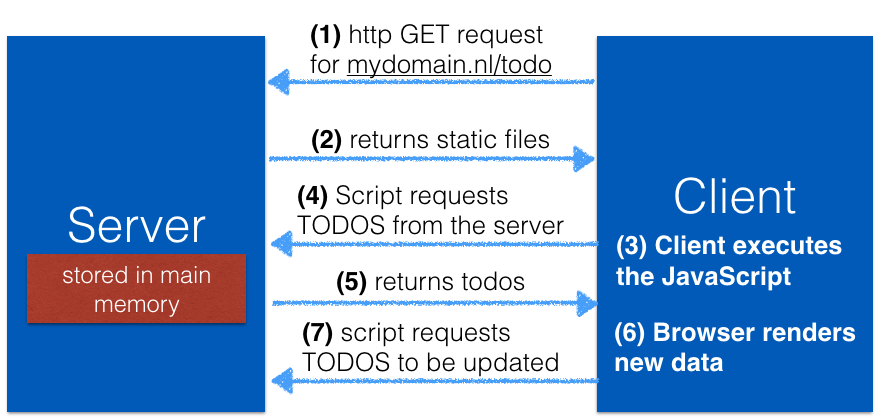
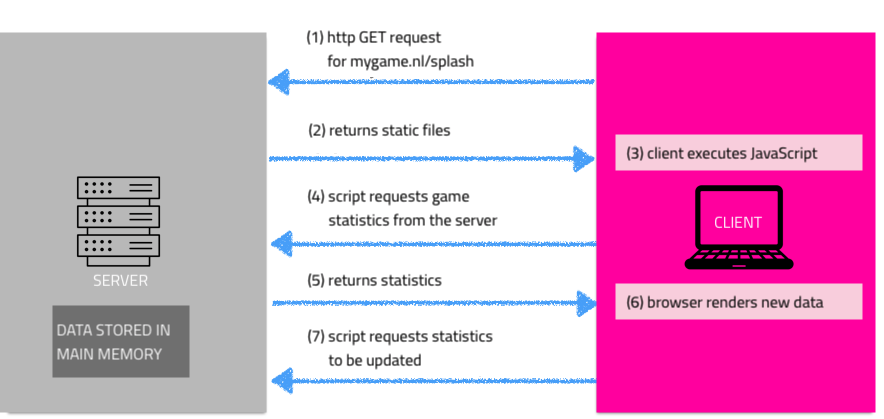
Node.js transcript finalized

diff --git a/styles.css b/styles.css
@@ -55,7 +55,7 @@
   padding: 12px 16px;
   text-decoration: none;
   display: block;
-  text-align: left;
+  text-align: left; 
 }
 
 /* Add a grey background color to dropdown links on hover */

diff --git a/Lecture-node.md b/Lecture-node.md
@@ -52,13 +52,15 @@ Node.js is by now a well-established platform; important milestones between 2008
 - 2017: Node becomes a **first-class citizen of V8**. This means that no V8 code change is allowed to break Node.
 - August 2018: [Node.js has been downloaded more than one billion times.](https://medium.com/@nodejs/more-than-a-billion-downloads-of-node-js-952a8a98eb42)
 
-Node.js is widely used today, in [Stack Overflow's 2019 developer survey](https://insights.stackoverflow.com/survey/2019) Node.js was the most popular framework in the *Frameworks, Libraries, and Tools* section (in the same survey, Visual Studio Code came out as most popular IDE). If you want to know more about how the V8 engine and Node.js fit together, watch [this keynote by Franziska Hinkelmann](https://www.youtube.com/watch?v=PsDqH_RKvyc), a prominent Googler working on the V8 engine.
+Node.js is widely used today, in [Stack Overflow's 2019 developer survey](https://insights.stackoverflow.com/survey/2019) Node.js was the most popular framework in the *Frameworks, Libraries, and Tools* section (in the same survey, Visual Studio Code came out as most popular IDE!). If you want to know more about how the V8 engine and Node.js fit together, watch [this talk by Franziska Hinkelmann](https://www.youtube.com/watch?v=PsDqH_RKvyc), a prominent Googler working on the V8 engine.
 
 ### Node.js vs. client-side JavaScript
 
-[Mariko Kosaka](https://twitter.com/kosamari), another Googler, shared this image to compare client-side JavaScript and Node.js on Twitter:
+[Mariko Kosaka](https://twitter.com/kosamari) shared this image to compare client-side JavaScript and Node.js on Twitter, which captures the essence of Node.js very well:
 
 <blockquote class="twitter-tweet" data-lang="en"><p lang="en" dir="ltr">What IS Node.js 🤔❓❓<br><br>(Proposal to stop calling server side JavaScript✨) <a href="https://t.co/IhPt8UHnPN">pic.twitter.com/IhPt8UHnPN</a></p>&mdash; Mariko Kosaka (@kosamari) <img src="https://pbs.twimg.com/media/C5_ue1TWYAA0C1R.jpg">March 3, 2017</blockquote>
+
+:point_up: Shown on the left here is Google Chrome and its JavaScript runtime engine V8 (other browsers may make use of other JavaScript runtime engines). V8 is also the core of Node.js. The main difference between the browser and Node.js are the available APIs. As an example, while JavaScript code deployed in the browser cannot access the local file system for security reasons, Node.js can. It is also important to realize that Node.js runs on many different types of hardware.
 
 
 ### Event-driven and non-blocking
@@ -72,20 +74,23 @@ Take a look at this event loop example:
 Here, despite the **single-threaded nature** of Node.js, several things are seemingly going on in parallel: a file is read from disk, a database is queried while at the same time an HTTP request from a client comes in. The reason for this is the **asynchronous** nature of file reads, network requests and so on (basically: I/O requests). While the event loop is executed in a single thread, Node maintains a *pool of threads* in order to process I/O requests in parallel. So, it is more correct to say that **Node's event loop is single-threaded**. To make this concrete, let's look at how local files are read in Node. Here is an example taken from the [Node documentation](https://nodejs.org/api/fs.html#fs_fs_readfile_path_options_callback) :point_down::
 
 ```javascript
-fs.readFile('/etc/passwd', function(err, data) {
-    if(err) throw err;
-    console.log(data);
-})
+var fs = require('fs');//this line will be explained in a bit
+
+//we assume there is a file styles.css in the current directory
+fs.readFile('./styles.css', 'utf8', function(err, data) {
+  if (err) throw err;
+  console.log(data);
+});
 ```
 
 <sup>In the documentation it does not actually say `function(err, data)` but `(err, data) =>` instead; this is just a syntactic shortcut called an [arrow function](https://developer.mozilla.org/en-US/docs/Web/JavaScript/Reference/Functions/Arrow_functions) introduced in ES6.</sup>
 
-:point_up: The method `readFile` takes two parameters: the path of the file to read and a **callback function**: the function to execute when the file reading operation has completed. The callback function has two parameters: an error object and a data object. If the file reading operation failed for some reason, we throw the error, otherwise we print out the data to the console. Once the Node runtime encounters this code snippet, it will execute `fs.readFile(....)` and return immediately to execute the next line of code (this is called **non-blocking**). What happens to the file read operation? The Node runtime has access to a pool of I/O threads and once a thread has completed the file reading operation, an event is entered into the event loop to then execute the callback (in our case printing out the contents to the console).
+:point_up: The method `readFile` takes three parameters: the path of the file to read, the file encoding type, and a **callback function**: the function to execute when the file reading operation has completed. The callback function has two parameters: an error object and a data object. If the file reading operation failed for some reason, we throw the error, otherwise we print out the data to the console. Once the Node runtime encounters this code snippet, it will execute `fs.readFile(....)` and return immediately to execute the next line of code (this is called **non-blocking**). What happens to the file read operation? The Node runtime has access to a pool of I/O threads and once a thread has completed the file reading operation, an event is entered into the event loop to then execute the callback (in our case printing out the contents to the console).
 
 The Node runtime can also read file contents from disk in a **blocking** manner :point_down::
 
 ```javascript
-let data = fs.readFileSync('/etc/passwd');
+let data = fs.readFileSync('./styles.css', 'utf8');
 ```
 
 :point_up: The Node runtime will wait until the file read is complete, return the file content in the `data` variable and then continue with the next line of code. If the file to read is large, this operation will take time and nothing else is executed in the meantime (because the code is **blocking**).
@@ -198,7 +203,12 @@ This is our corresponding [script](demo-code/node-tcp-ex) :point_down::
 const fs = require('fs');
 const net = require('net');
 
-//command line arguments: file to watch and port number
+/* 
+ * command line arguments: file to watch and port number;
+ * we start reading arguments from process.argv[2] onwards as
+ * process.argv[0] contains the path to the node program and
+ * process.argv[1] contains teh path to the node script
+ */
 const filename = process.argv[2];
 const port = process.argv[3];
 
@@ -359,15 +369,13 @@ When we do implement a web server, in the Node.js community that most often mean
 
 ## Express
 
-As noted in the web course book (Chapter 6), Express *creates a layer on top of the core HTTP module that handles a lot of complex things that we don't want to handle ourselves, like serving up static HTML, CSS, and client-side JavaScript files.*
+As noted in the web course book (Chapter 6), [Express](https://expressjs.com/) *"creates a layer on top of the core HTTP module that handles a lot of complex things that we don't want to handle ourselves, like serving up static HTML, CSS, and client-side JavaScript files."*
 
-Express is a rather minimalistic web framework that provides a *thin layer of fundamental web application features, without obscuring Node.js features that you know and love* ([Express](https://expressjs.com/) in its own words).
-
-Node.js has a small core code base; it comes with a number of core modules included such as `http` and `url`. Express is not one of the core modules (though it is certainly among the most popular non-core modules with more than [3 million downloads per week](https://www.npmjs.com/package/express)) and needs to be installed separately. In the Node ecosystem, the Node package manager ([npm](https://www.npmjs.com/)) provides us with an easy to use and efficient manner to install additional packages.
+Node.js has a small core code base; it comes with a number of core modules included such as `http` and `url`. Express is not one of the core modules (though it is certainly among the most popular non-core modules with more than [6 million downloads per week](https://www.npmjs.com/package/express)) and needs to be installed separately. In the Node ecosystem, the Node package manager ([npm](https://www.npmjs.com/)) provides us with an easy to use and efficient manner to install additional packages.
 
 Let's say you want to know whether a Node module exists that offers functionality you do not want to implement yourself. For this example, let this be the functionality of finding the smallest number in a list. Here is what is typically done:
 
-:one: Head to [npmjs.com](https://www.npmjs.com/), which allows you to search and browse more than 650,000 existing Node packages. You can also publish your own. Having such a central repository of packages helps code discovery and reuse.
+:one: Head to [npmjs.com](https://www.npmjs.com/), which allows you to search and browse existing Node packages. You can also publish your own. Having such a central repository of packages helps code discovery and reuse.
 
 :two: Search for the desired functionality, e.g. by using *smallest in list* as query.
 
@@ -460,23 +468,25 @@ Having all the pieces in place (knowledge of HTML, client-side JavaScript, Node.
 
 :five: Add interactivity between client and server.
 
-Here is an example of a concrete folder structure for a todo application:
+Here is the folder structure (a bit cleaned up for illustration purposes!) of the demo board game application:
 
 ![folder structure](img/L4-file-structure.png)
 
-In [Assignment 2](Assignment-2.md) you will learn how to create such a folder structure semi-automatically, according to accepted best practices.
+In [Assignment 5](Assignment-5.md) you will learn how to create such a folder structure semi-automatically, according to accepted best practices.
 
 Step :five:, the interactivity between client and server is the most time-consuming part of application development, as it can be based on different technologies, depending on the application's needs.
 
-In the course book, the client-server interaction is implemented with **Ajax** - which is sensible in the context of the Todo application developed throughout the book. In the board game project we ask you to implement throughout assignments [1](Assignment-1.md), [2](Assignment-2.md) and [3](Assignment-3.md), the client-server interaction is largely based on **WebSockets** - which is a good choice due to the bidirectional communication needs.
+In the course book, the client-server interaction is implemented with **Ajax** - which is sensible in the context of the Todo application developed throughout the course book. In the board game project we ask you to implement throughout assignments [4](Assignment-4.md), [5](Assignment-5.md) and [6](Assignment-6.md), the client-server interaction is largely based on **WebSockets** - which is a good choice due to the bidirectional communication needs ofour app.
 
-Here is a typical web application flow that showcases a possible client-server interaction for a Todo application:
+Ajax *is* useful for the splash screen of our board game project, in particular when it comes to updating the game statistics (e.g. games played, games aborted, games ongoing). The application flow below showcases a possible client-server interaction to do just that:
 
-![Todo application](img/L4-todo-app.png)
+![Splash screen statistics flow](img/L4-splash-statistics.png)
 
-In this application, the todos are stored in the server's main memory; once you have completed the second part of the Web- and Database Technology course (where you learn what principles databases are based on and how to interact with them), you will be able to connect a database to a web application, in order to store data persistently and retrieve it.
+:point_up: The game statistics are stored in the server's main memory for simplicity; in any large-scale application they would be stored in a database that the server makes read/write requests to. Important to realize is that initially (step :two:) the server only returns static files that do not contain the actual game statistics; in step :three: the client executes a few lines of JavaScript (Ajax!) to request the statistics from the server (step :four:); the server sends in step :five: the requested data. 
 
 When designing your own application, it is important to have a good understanding of the request/response flow in different stages of the application.
+
+Before describing Ajax in more detail, we make a short detour into data exchange formats: how does the data typically look like that is exchanged between client and server?
 
 ## JSON: exchanging data between the client and server
 
@@ -519,7 +529,25 @@ Here is an example of a Twitter message in JSON format (taken from [Twitter's do
 
 Years ago, XML was used as data exchange format on the web. XML is well defined but not easy to handle. To get an idea of XML, take a look at [this Twitter output in XMl format](https://gist.github.com/jonm/3080489).
 
-JSON was developed by Douglas Crockford, one of the early advocates for JavaScript and the author of [JavaScript: The Good Parts](http://shop.oreilly.com/product/9780596517748.do). XML is often too bulky in practice; JSON has a much smaller footprint than XML. Importantly, JSON can be parsed with built-in JavaScript functionality ([`JSON.parse`](https://developer.mozilla.org/en-US/docs/Web/JavaScript/Reference/Global_Objects/JSON/parse)), which turns a JSON string into an object. JavaScript objects can be turned into JSON with the [`JSON.stringify`](https://developer.mozilla.org/en-US/docs/Web/JavaScript/Reference/Global_Objects/JSON/stringify) method.
+JSON was developed by Douglas Crockford, one of the early advocates for JavaScript and the author of [JavaScript: The Good Parts](http://shop.oreilly.com/product/9780596517748.do). XML is often too bulky in practice; JSON has a much smaller footprint than XML. Importantly, JSON can be parsed with built-in JavaScript functionality ([`JSON.parse`](https://developer.mozilla.org/en-US/docs/Web/JavaScript/Reference/Global_Objects/JSON/parse)), which turns a JSON string into an object. JavaScript objects can be turned into JSON with the [`JSON.stringify`](https://developer.mozilla.org/en-US/docs/Web/JavaScript/Reference/Global_Objects/JSON/stringify) method:
+
+```javascript
+var gameStats = {
+    gamesPlayed: 0,
+    gamesAbolished: 0,
+    gamesOngoing: 0,
+    incrGamesPlayed : function(){
+        this.gamesPlayed++;
+    }
+}
+gameStats.incrGamesPlayed();
+
+var jsonString = JSON.stringify(gameStats); 
+//"{\"gamesPlayed\":1,\"gamesAbolished\":0,\"gamesOngoing\":0}"
+
+var jsonObject = JSON.parse(jsonString);
+//jsonObject is equivalent to gameStats minus the properties that are functions
+```
 
 Two major differences between JSON and JavaScript objects are:
 
@@ -532,7 +560,7 @@ With JSON being a de facto data exchange standard, Express has a dedicated respo
 
 Ajax stands for **Asynchronous JavaScript and XML**. XML is in the name, and in the name only. XML is not commonly used as Ajax data exchange format anymore (JSON is!).  
 
-**Asynchronous Javascript:** In synchronous programming, things happen one at a time. When a function needs information from another function, it has to wait for it to finish and this delays the whole program. This is a bad use of your computer's resources, there's no point waiting for a process to finish especially in an era where computer processors are equipped with multiple cores. This is where asynchronous programming steps up. A function that takes too long to finish is seperated from the main application and when it's done it notifies the main program if it was successful or not. [MDN web docs](https://developer.mozilla.org/en-US/docs/Learn/JavaScript/Asynchronous) is an excellent source to learn about asynchronous Javascript. The first 3 guides of this link should give you enough information to understand this concept.
+**Asynchronous Javascript:** In synchronous programming, things happen one at a time. When a function needs information from another function, it has to wait for it to finish and this delays the whole program. This is a bad use of your computer's resources, there's no point waiting for a process to finish especially in an era where computer processors are equipped with multiple cores. This is where asynchronous programming steps up. A function that takes too long to finish is seperated from the main application and when it is done, it notifies the main program if it was successful or not. 
 
 Ajax is a **JavaScript mechanism** that enables the dynamic loading of content **without having to refetch/reload the page manually**. Ajax is a technology that **injects** new data into an existing web page. Ajax is not a language. Ajax is also not a product. You see examples of this technology every day; if you stay long enough on the Twitter homepage, you will see a message such as *See 1 new tweet*, which appears without a complete reload of the page. If we keep the browser's web dev tools open (in particular the [Network Monitor](https://developer.mozilla.org/en-US/docs/Tools/Network_Monitor)), we now see a continous stream of request/response message pairs - every few seconds the browser sends a request to Twitter's servers to check for new tweets to load:
 
@@ -616,8 +644,6 @@ In practice, implementing Ajax calls correctly can be frustrating, mostly due to
 The same-origin policy is fulfilled when the **protocol, port and host** are the same for two pages. Important for debugging: Ajax **cannot** be executed from a web page opened locally from disk (e.g. if you head to your browser and open `file:///Users/claudia/GitHub/Web-Teaching/demo-code/node-ajax-ex/client/index.html`).
 
 There are ways around Ajax' same-origin policy, some of which have been collected in this [Stack Overflow thread](https://stackoverflow.com/questions/3076414/ways-to-circumvent-the-same-origin-policy). As in all scenarios and usages of web technologies, the interaction between technologies and the availability of all kinds of web technologies makes it possible to "misuse" a technology for another purpose to circumvent a perceived restriction or shortcoming.
-
-Overall, despite there being possibilities to enable Ajax across origins, it is not recommended and using Ajax as-is does not allow it.
 
 ## WebSockets
 
@@ -741,7 +767,7 @@ The WebSocket protocol as described in [RFC 6455](https://tools.ietf.org/html/rf
 
 In our client-side code example :point_up: we saw how simple it is to send data once a connection is established: `socket.send()`.
 
-:bug: TODO: show an example of Firefox's [WebSocket Inspector](https://hacks.mozilla.org/2019/10/firefoxs-new-websocket-inspector/)
+:bug: The [WebSocket Inspector](https://hacks.mozilla.org/2019/10/firefoxs-new-websocket-inspector/) can help you to debug your code!
 
 ### WebSockets for multi-player games
 

diff --git a/README.md b/README.md
@@ -84,7 +84,7 @@ The database materials (lectures/assignments) are not included here! You can fin
   - [Lecture 9](#lecture-9)
   - [Lecture 10](#lecture-10)
   - [Lecture 11](#lecture-11)
-  - [🚧 Lecture 12](#%f0%9f%9a%a7-lecture-12)
+  - [Lecture 12](#lecture-12)
   - [🚧 Lecture 13](#%f0%9f%9a%a7-lecture-13)
   - [🚧 Lecture 14](#%f0%9f%9a%a7-lecture-14)
   - [🚧 Lecture 15](#%f0%9f%9a%a7-lecture-15)
@@ -347,13 +347,14 @@ This lecture covers client-side JavaScript ([lecture slides](slides/2019_20/js.p
   - Jangda, A., Powers, B., Berger, E. D., & Guha, A., 2019. [Not so fast: analyzing the performance of webassembly vs. native code](https://www.usenix.org/system/files/atc19-jangda.pdf). In Proceedings of the 2019 USENIX Annual Technical Conference, pp. 107-120.
 
 
-### 🚧 Lecture 12
+### Lecture 12
 
 This lecture covers Node.js ([transcript](Lecture-node.md)).
 
 - Required readings:
   - :warning: Chapters 5 & 6 of the [web course book](http://shop.oreilly.com/product/0636920030621.do). We will cover Node.js in the lecture from sratch, use the reading to get a first idea of what Node.js is about!
 - Recommended activities:
+  - The [MDN documentation on Asynchronous JavaScript](https://developer.mozilla.org/en-US/docs/Learn/JavaScript/Asynchronous) is an excellent source to learn about the topic in more detail.
   - [Interactive Node.js exercises](nodeschool-exercises.md).
 - Recommended readings:
   - [Node.js State of the Union 2017](https://medium.com/the-node-js-collection/node-js-state-of-the-union-blog-2017-ed86640ec451).
